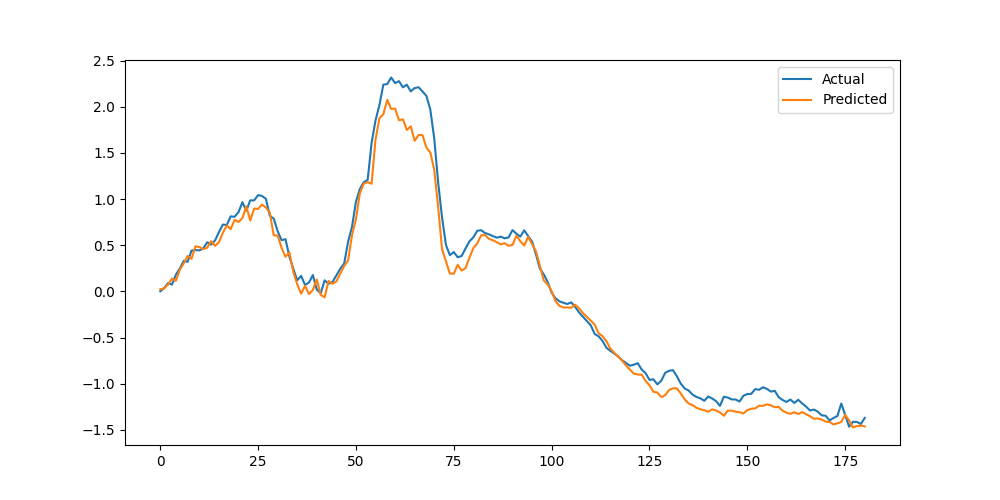
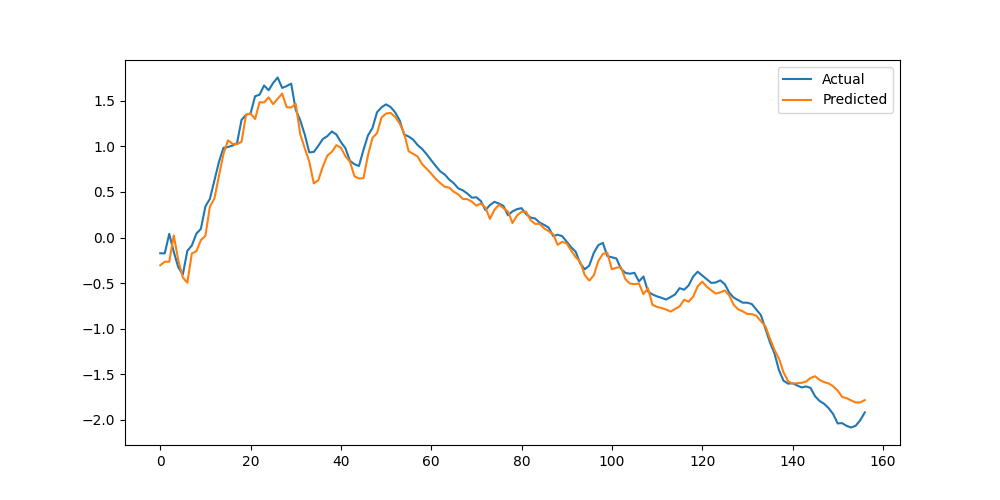
plotting

diff --git a/src/experiments/single_step/crossval.py b/src/experiments/single_step/crossval.py
@@ -10,9 +10,12 @@ import data_processing.three_oec.process_3oec as process_3oec
 import data_processing.three_oec.sequences_3oec as sequences_3oec 
 import models.lstm.single_step as lstm_single_step
 import plotting.plot_preds
+import utils
+import utils.set_seeds
 class CrossVal():
-    def __init__(self, data_path, sampling_freq, sequence_len, device):
+    def __init__(self, data_path, num_train_epochs, sampling_freq, sequence_len, device):
         self.data_path = data_path
+        self.num_train_epochs = num_train_epochs
         self.sampling_freq = sampling_freq
         self.sequence_len = sequence_len
         self.device = device
@@ -51,7 +54,20 @@ class CrossVal():
         if model_label == 'model_1':
             self.train_seq = self.seq1_tensor
             self.train_lbls = self.labels1_tensor
+        elif model_label == 'model_2':
+            self.train_seq = self.seq2_tensor
+            self.train_lbls = self.labels2_tensor
+        elif model_label == 'model_3':
+            self.train_seq = self.seq3_tensor
+            self.train_lbls = self.labels3_tensor
+        elif model_label == 'model_4':
+            self.train_seq = self.seq4_tensor
+            self.train_lbls = self.labels4_tensor
+        else:
+            return False
+
         return 1
+    
     def train_model(self, num_epochs: int,
                      model_label: str):
         """
@@ -85,7 +101,8 @@ class CrossVal():
         
         return model
     
-    def test_model(self, model: nn.Module, model_lbl: str):
+    def test_model(self, model: nn.Module, test_seq: torch.FloatTensor, test_lbl: torch.FloatTensor,
+                   prefix: str):
         """
         Test a trained model
 
@@ -98,8 +115,8 @@ class CrossVal():
         preds = []
         model.eval()
         # temp; will remove
-        test_seq = self.train_seq
-        test_lbl = self.train_lbls
+        # test_seq = self.train_seq
+        # test_lbl = self.train_lbls
         
         with torch.no_grad():
             for i in range(len(test_seq)):
@@ -110,9 +127,39 @@ class CrossVal():
                 else:
                     preds.append(pred)
         
-        plotting.plot_preds.plot_preds_from_device(preds, test_lbl)
+
+        plotting.plot_preds.plot_preds_from_device(preds, test_lbl, filename_prefix=prefix)
 
         ## add metrics reporting later
+    
+    def run_experiment(self, num_runs: int):
+        model_labels = ['model_1', 'model_2', 'model_3', 'model_4']
+
+        for i in range(num_runs):
+            utils.set_seeds.set_experiment_seeds(i)
+            for model_lbl in model_labels:
+                cur_model = self.train_model(self.num_train_epochs, model_lbl)
+                self.set_test_data(model_lbl)
+                for test_seq, test_lbl in zip(self.test_seqs, self.test_lbls):
+                    prefix = f'crossval_{model_lbl}_seed_{i}'
+                    self.test_model(cur_model, test_seq, test_lbl, prefix)
+        
+                
 
 
-
+    def set_test_data(self, model_lbl: str):
+        if model_lbl == 'model_1':
+            self.test_seqs = [self.seq2_tensor, self.seq3_tensor, self.seq4_tensor]
+            self.test_lbls = [self.labels2_tensor, self.labels3_tensor, self.labels4_tensor]
+        elif model_lbl == 'model_2':
+            self.test_seqs = [self.seq1_tensor, self.seq3_tensor, self.seq4_tensor]
+            self.test_lbls = [self.labels1_tensor, self.labels3_tensor, self.labels4_tensor]
+        elif model_lbl == 'model_3':
+            self.test_seqs = [self.seq1_tensor, self.seq2_tensor, self.seq4_tensor]
+            self.test_lbls = [self.labels1_tensor, self.labels2_tensor, self.labels4_tensor]
+        elif model_lbl == 'model_4':
+            self.test_seqs = [self.seq1_tensor, self.seq2_tensor, self.seq3_tensor]
+            self.test_lbls = [self.labels1_tensor, self.labels2_tensor, self.labels3_tensor]
+        else:
+            print('Wrong model label')
+            return False

diff --git a/run/run_crossval.py b/run/run_crossval.py
@@ -6,10 +6,9 @@ sys.path.append(os.path.abspath(os.path.join(os.path.dirname(__file__), "../")))
 from experiments.single_step import crossval
 
 def main():
-    experiment = crossval.CrossVal('3OEC_current_flow.csv', '5min',
+    experiment = crossval.CrossVal('3OEC_current_flow.csv', 50, '5min',
                                    12, 'cuda')
-    model = experiment.train_model(100, 'model_1')
-    experiment.test_model(model, 'model_1')
+    experiment.run_experiment(2)
 
 if __name__=='__main__':
     main()

diff --git a/src/plotting/plot_preds.py b/src/plotting/plot_preds.py
@@ -26,6 +26,7 @@ def plot_preds_from_device(prediction, truth, filename_prefix='plot', save_dir='
     plt.figure(figsize=(10, 5))
     plt.plot(truth_np, label='Actual')
     plt.plot(prediction_np, label='Predicted')
+    plt.title(filename_prefix)
     plt.legend()
 
     # Save plot as PNG
